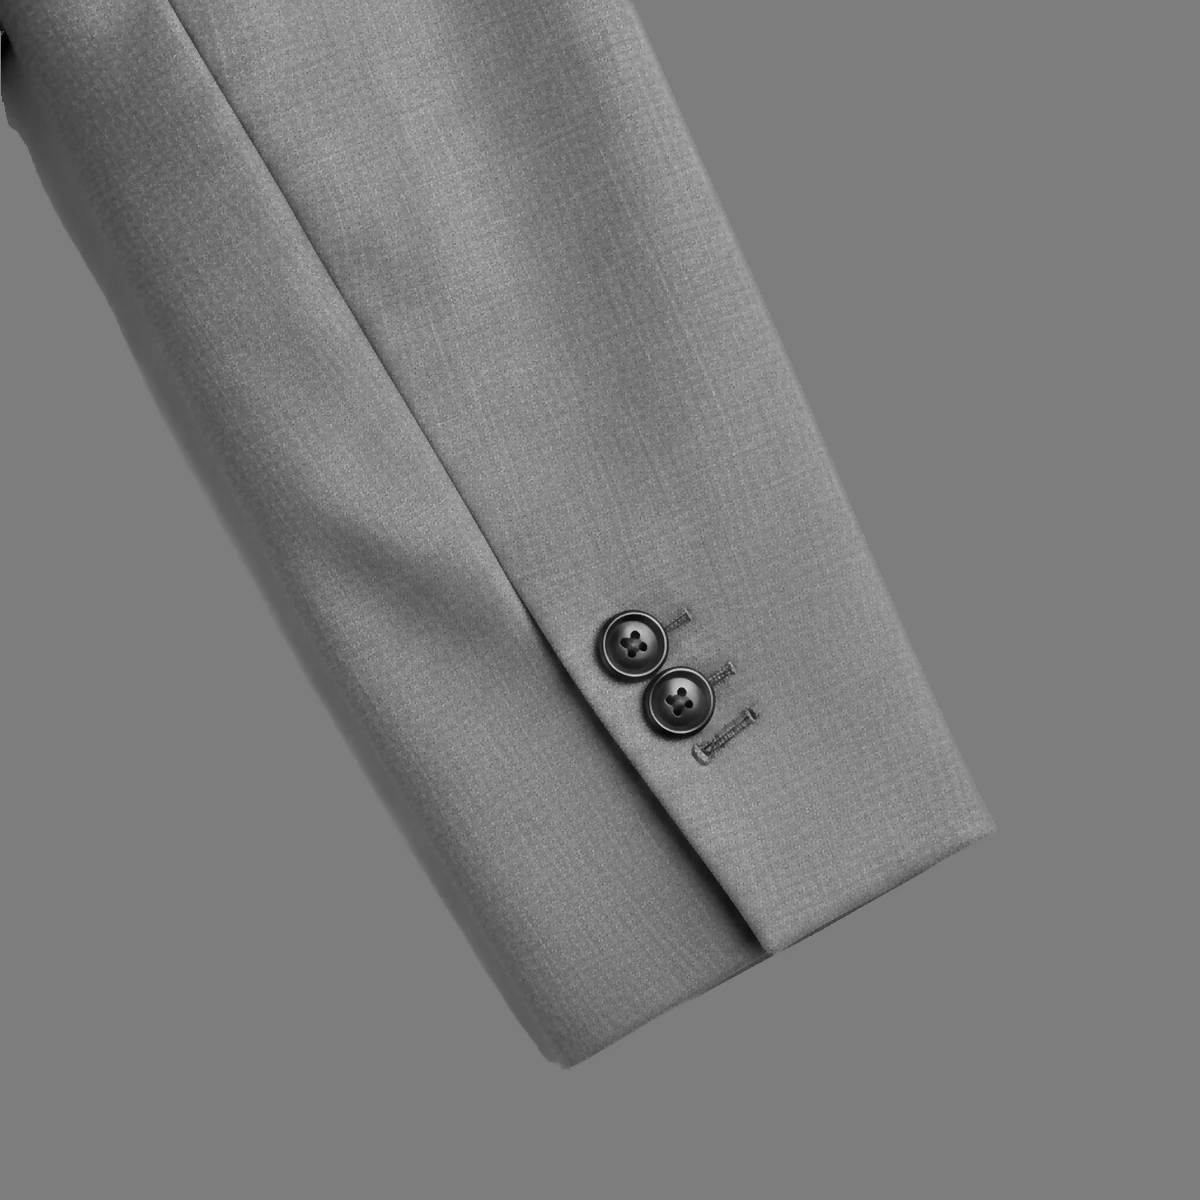
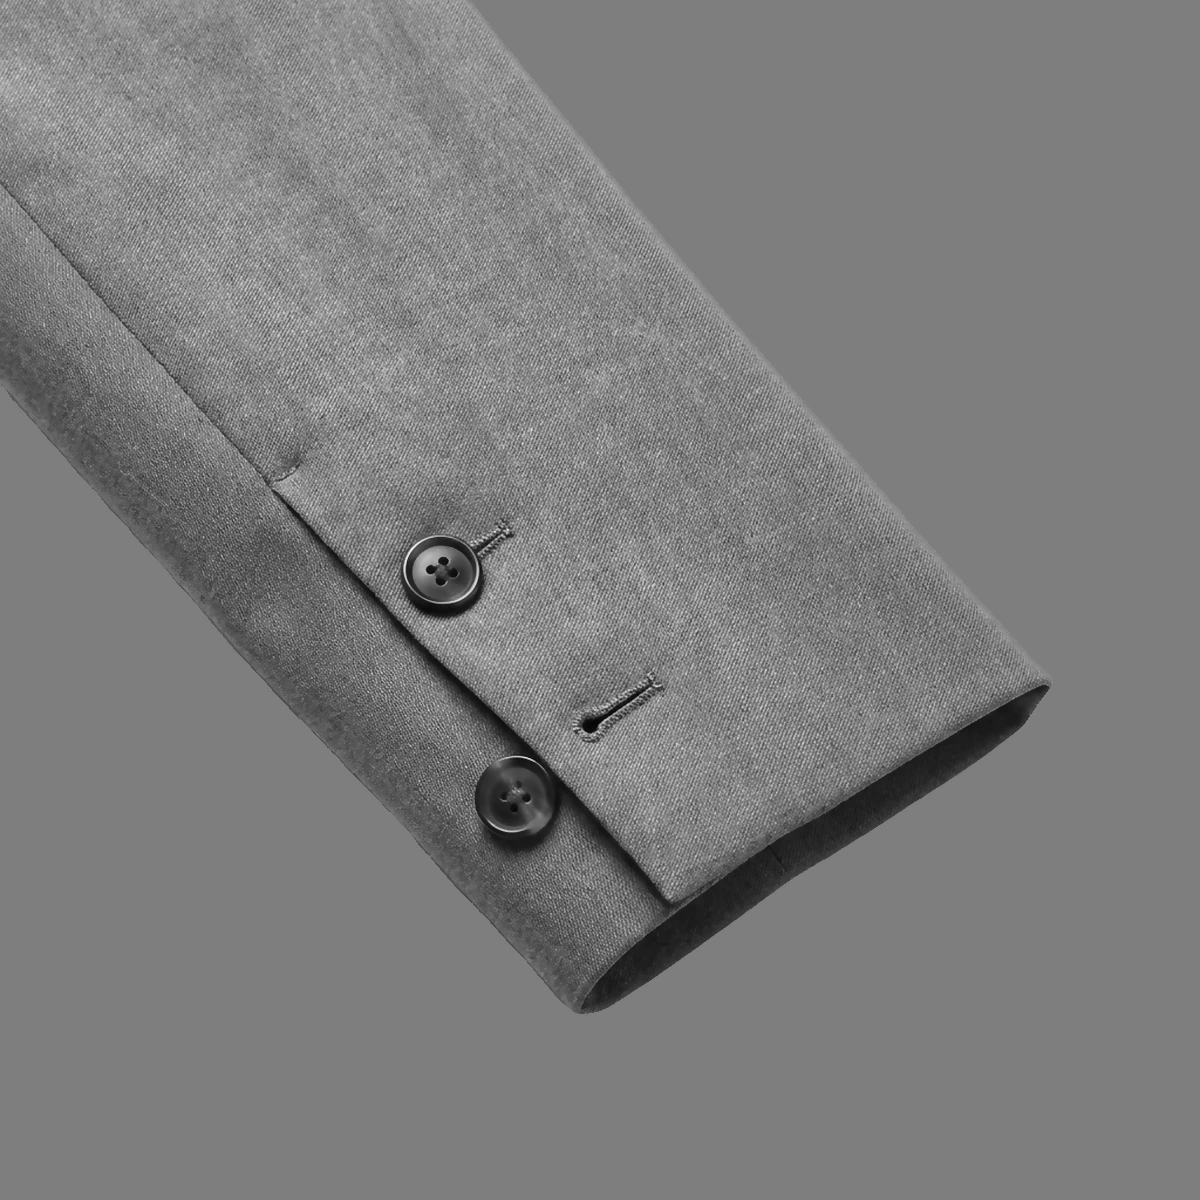
Launch fixes from an end-to-end client run-through
- Hide jacket: front and back were identical; back now shows the waistcoat back
  (three-piece), two-piece shows front only
- Sleeve buttons: close-ups now show the right count (4 showed 5); new 0/2/3/4, working
  and decorative cuff photos; buttons keep their horn colour
- Lining: one colour grid (tone-matched + every colour/print), picked colour shows on the
  Inside view at once; 'Change lining' shortcut on the Inside view
- Failed payment: 'Try payment again' back to checkout (details kept), plus back to cart
- Checkout asks for the name first; mobile preview tabs no longer cut off

Claude-Session: https://claude.ai/code/session_018gZGfgQVQEqPriUChi2SZJ

Changed region(s): [[0.0, 0.0, 0.8942, 0.8942], [0.74, 0.7092, 0.7708, 0.74], [0.7092, 0.74, 0.74, 0.7708]]

diff --git a/components/suit/DetailsPanel.tsx b/components/suit/DetailsPanel.tsx
@@ -1,6 +1,6 @@
 "use client";
 
-import { GROUP_BY_ID, LINING_COLOURS, MONOGRAM_FONTS, THREAD_COLOURS } from "@/lib/suit/catalogue";
+import { GROUP_BY_ID, LINING_COLOURS, MONOGRAM_FONTS, THREAD_COLOURS, getFabric } from "@/lib/suit/catalogue";
 import { NOTES_MAX, isGroupApplicable, sanitizeMonogram } from "@/lib/suit/rules";
 import type { MonogramSpec, PaletteColour, SuitConfig } from "@/lib/suit/types";
 import { formatMoney, type DisplayCurrency } from "@/lib/currency";
@@ -77,11 +77,26 @@ export function DetailsPanel({
     <div>
       <h3 className="pt-5 text-[11px] font-semibold uppercase tracking-[0.2em] text-oxblood">Lining</h3>
       {tiles("accents.liningStyle")}
-      {tiles("accents.liningColour")}
-      {isGroupApplicable("accents.liningColour", config) && o["accents.liningColour"] === "custom" ? (
-        <div className="pb-5">
-          <PaletteGrid colours={LINING_COLOURS} selected={config.lining} onSelect={(id) => onPatch({ lining: id })} currency={currency} label="Lining colour" />
-        </div>
+      {isGroupApplicable("accents.liningColour", config) ? (
+        <fieldset className="border-t border-line py-5">
+          <legend className="sr-only">Lining colour</legend>
+          <p className="mb-3 text-[15px] text-ink">Lining colour</p>
+          {/* One grid, as on the reference: tone-matched first, then every colour and print (a choice switches to a custom lining). */}
+          <PaletteGrid
+            colours={[{ id: "__house", name: "Tone-matched", hex: getFabric(config.fabric)?.hex ?? "#3a3b3e" } as PaletteColour, ...LINING_COLOURS]}
+            selected={o["accents.liningColour"] === "custom" ? config.lining : "__house"}
+            onSelect={(id) => {
+              if (id === "__house") onOption("accents.liningColour", "house");
+              else {
+                onOption("accents.liningColour", "custom");
+                onPatch({ lining: id });
+              }
+            }}
+            currency={currency}
+            label="Lining colour"
+          />
+          <p className="mt-2 text-[11px] text-muted">Tone-matched is included; a colour or print is +{formatMoney(GROUP_BY_ID["accents.liningColour"]?.values.find((v) => v.id === "custom")?.price ?? 0, currency)}.</p>
+        </fieldset>
       ) : null}
 
       <h3 className="border-t border-line pt-5 text-[11px] font-semibold uppercase tracking-[0.2em] text-oxblood">Buttons & threads</h3>

diff --git a/components/suit/Stage.tsx b/components/suit/Stage.tsx
@@ -38,6 +38,10 @@ function readSkin(): SkinToneId {
 function Preview({ config, view, hideJacket, fit, title, lastGroup = null }: { config: SuitConfig; view: StageView; hideJacket: boolean; skin: SkinToneId; fit: "contain" | "width"; title: string; lastGroup?: string | null }) {
   const cls = fit === "width" ? "w-full" : "h-full w-full p-[3%]";
   const drawing = (v: PreviewView) => <SuitDrawing config={config} view={v} hideJacket={hideJacket} className={fit === "width" ? "block h-auto w-full" : "h-full w-full"} title={title} />;
+  if (hideJacket && (view === "back" || view === "modelBack")) {
+    const back = `wc-back-${config.options["waistcoat.back"] === "fabric" ? "fabric" : "lining"}`;
+    return <PhotoPreview config={config} view="waistcoat" asset={back} fit={fit} className={cls} title={title} fallback={drawing("back")} />;
+  }
   if (hideJacket) return <PhotoPreview config={config} view="nojacket" fit={fit} className={cls} title={title} fallback={drawing("front")} />;
   if (view === "front") {
     const want = detailPhotoFor(lastGroup, config);
@@ -90,8 +94,11 @@ export function Stage({
 }) {
   const three = config.options["suit.pieces"] === "three";
   const [hideJacket, setHideJacket] = useState(false);
+  // Without the jacket: front, plus the waistcoat's back on a three-piece (there is no shirt-back photo).
   const views: StageView[] = hideJacket
-    ? ["model", "back"]
+    ? three
+      ? ["model", "back"]
+      : ["model"]
     : three
       ? ["model", "back", "lining", "waistcoat", "front"]
       : ["model", "back", "lining", "front"];
@@ -149,7 +156,7 @@ export function Stage({
               role="tab"
               aria-selected={v === current}
               onClick={() => onViewChange(v)}
-              className={`flex-none whitespace-nowrap border px-2 py-1 text-[11px] uppercase tracking-wide transition-colors sm:px-2.5 ${v === current ? "border-ink bg-ink text-cream" : "border-line bg-paper text-muted hover:text-ink"}`}
+              className={`flex-none whitespace-nowrap border px-1.5 py-1 text-[10px] uppercase tracking-normal transition-colors sm:px-2.5 sm:text-[11px] sm:tracking-wide ${v === current ? "border-ink bg-ink text-cream" : "border-line bg-paper text-muted hover:text-ink"}`}
             >
               {VIEW_LABELS[v]}
             </button>

diff --git a/app/checkout/page.tsx b/app/checkout/page.tsx
@@ -93,8 +93,8 @@ export default function CheckoutPage() {
     if (items.length === 0) return "Your bag is empty.";
     const broken = suitLines.find((l) => l.suit.issue);
     if (broken) return `${broken.name}: ${broken.suit.issue} Reopen it from your bag.`;
-    if (!d.phone.trim()) return "Enter a phone number to continue.";
     if (hasSuits && !d.name.trim()) return "Enter your name — it goes on your order and fitting appointment.";
+    if (!d.phone.trim()) return "Enter a phone number to continue.";
     if (d.email.trim() && !/^[^\s@]+@[^\s@]+\.[^\s@]{2,}$/.test(d.email.trim())) return "That email address doesn't look right.";
     if (hasSuits && d.delivery !== "collect" && (d.address.trim().length < 4 || d.town.trim().length < 2)) return "Enter a delivery address and town.";
     if (hasSuits && d.delivery === "international" && d.country.trim().length < 2) return "Enter the destination country.";

diff --git a/app/checkout/complete/page.tsx b/app/checkout/complete/page.tsx
@@ -207,10 +207,11 @@ export default function CheckoutCompletePage() {
             <>
               <h1 className="text-3xl italic">Payment didn&rsquo;t go through</h1>
               <p className="mt-4 text-sm text-muted">
-                Nothing was charged. You can try again from your cart.
+                Nothing was charged. Your suit and details are saved &mdash; try again, or pay with a different method.
               </p>
-              <div className="mt-8">
-                <Button href="/cart">Back to Cart</Button>
+              <div className="mt-8 flex flex-wrap justify-center gap-3">
+                <Button href="/checkout">Try payment again</Button>
+                <Button href="/cart" variant="ghost">Back to cart</Button>
               </div>
             </>
           ) : null}

diff --git a/components/suit/Configurator.tsx b/components/suit/Configurator.tsx
@@ -374,6 +374,11 @@ export function Configurator() {
         </div>
         <div className="absolute left-3 top-3 flex flex-col items-start gap-1.5 lg:left-6 lg:top-6">
           <CurrencyToggle value={currency} onChange={setCurrency} />
+          {view === "lining" && step !== "details" ? (
+            <button type="button" onClick={() => goStep("details")} className="border border-ink bg-paper px-2.5 py-1.5 text-[10px] uppercase tracking-[0.15em] text-ink hover:bg-ink hover:text-cream">
+              Change lining
+            </button>
+          ) : null}
         </div>
 
         {/* Desktop step rail */}

diff --git a/lib/suit/detail-photos.ts b/lib/suit/detail-photos.ts
@@ -67,7 +67,7 @@ export function waistcoatPhotoFor(groupId: string | null, config: SuitConfig): s
 
 /** Nearest stand-in while a close-up has not been photographed yet. */
 export const DETAIL_FALLBACK: Record<string, string> = {
-  "detail-cuff-3-work": "detail-cuff-3-dec",
+  "detail-cuff-3-dec": "detail-cuff-3-work",
   "detail-cuff-4-work": "detail-cuff-4-dec",
   "detail-hem-turnups": "detail-break-half",
   "detail-break-none": "detail-hem-plain",

diff --git a/scripts/build-suit-photos.py b/scripts/build-suit-photos.py
@@ -89,6 +89,21 @@ def build(asset: str) -> dict:
                 contrast = (np.median(ann) - np.median(ring)) if ann.size else 0
                 if ring.size and np.median(ring) < 95 and lining[cy, cx] < 0.2 and (warm > 3 or np.median(ring) < 40) and contrast > (38 if close else 22) and (not close or ((np.median(ring) < 80 or (asset.startswith("detail-cuff") and np.median(ring) < 110 and warm > 4)) and np.median(ann) - np.median(ring) > 18 and (L[max(cy - r // 2, 0) : cy + r // 2, max(cx - r // 2, 0) : cx + r // 2] < 95).mean() > 0.7 and L[max(cy - r // 2, 0) : cy + r // 2, max(cx - r // 2, 0) : cx + r // 2].std() > 9 and cy > 0.12 * h and cx > 0.04 * WIDTH and cx < 0.96 * WIDTH)):
                     cv2.circle(btn, (cx, cy), max(r - 1, 3), 1, -1)
+    if asset.startswith("detail-cuff"):
+        # Sleeve close-ups: horn buttons are the only warm-brown things on the neutral grey cloth.
+        warmth = R - B
+        cand = ((warmth > 9) & (L < 150) & fg).astype(np.uint8)
+        cand = cv2.morphologyEx(cand, cv2.MORPH_OPEN, np.ones((3, 3), np.uint8))
+        cand = cv2.morphologyEx(cand, cv2.MORPH_CLOSE, np.ones((7, 7), np.uint8))
+        n_, lab_, st_, _ = cv2.connectedComponentsWithStats(cand)
+        btn = np.zeros(L.shape, np.uint8)
+        for k in range(1, n_):
+            x_, y_, w_, h_, a_ = st_[k]
+            if 120 < a_ < 40000 and max(w_, h_) < 420:
+                comp = (lab_ == k).astype(np.uint8)
+                cnts, _ = cv2.findContours(comp, cv2.RETR_EXTERNAL, cv2.CHAIN_APPROX_SIMPLE)
+                cv2.drawContours(btn, [cv2.convexHull(c) for c in cnts], -1, 1, -1)
+        btn = cv2.dilate(btn, np.ones((3, 3), np.uint8))
     # Tight discs: the cloth is dyed underneath, the photographed button is laid back on top.
     mbtn = cv2.GaussianBlur(btn.astype(np.float32), (0, 0), 0.7) * alpha
     # Shirt (three-piece / no-jacket shots): flood-fill from bright neutral seeds
